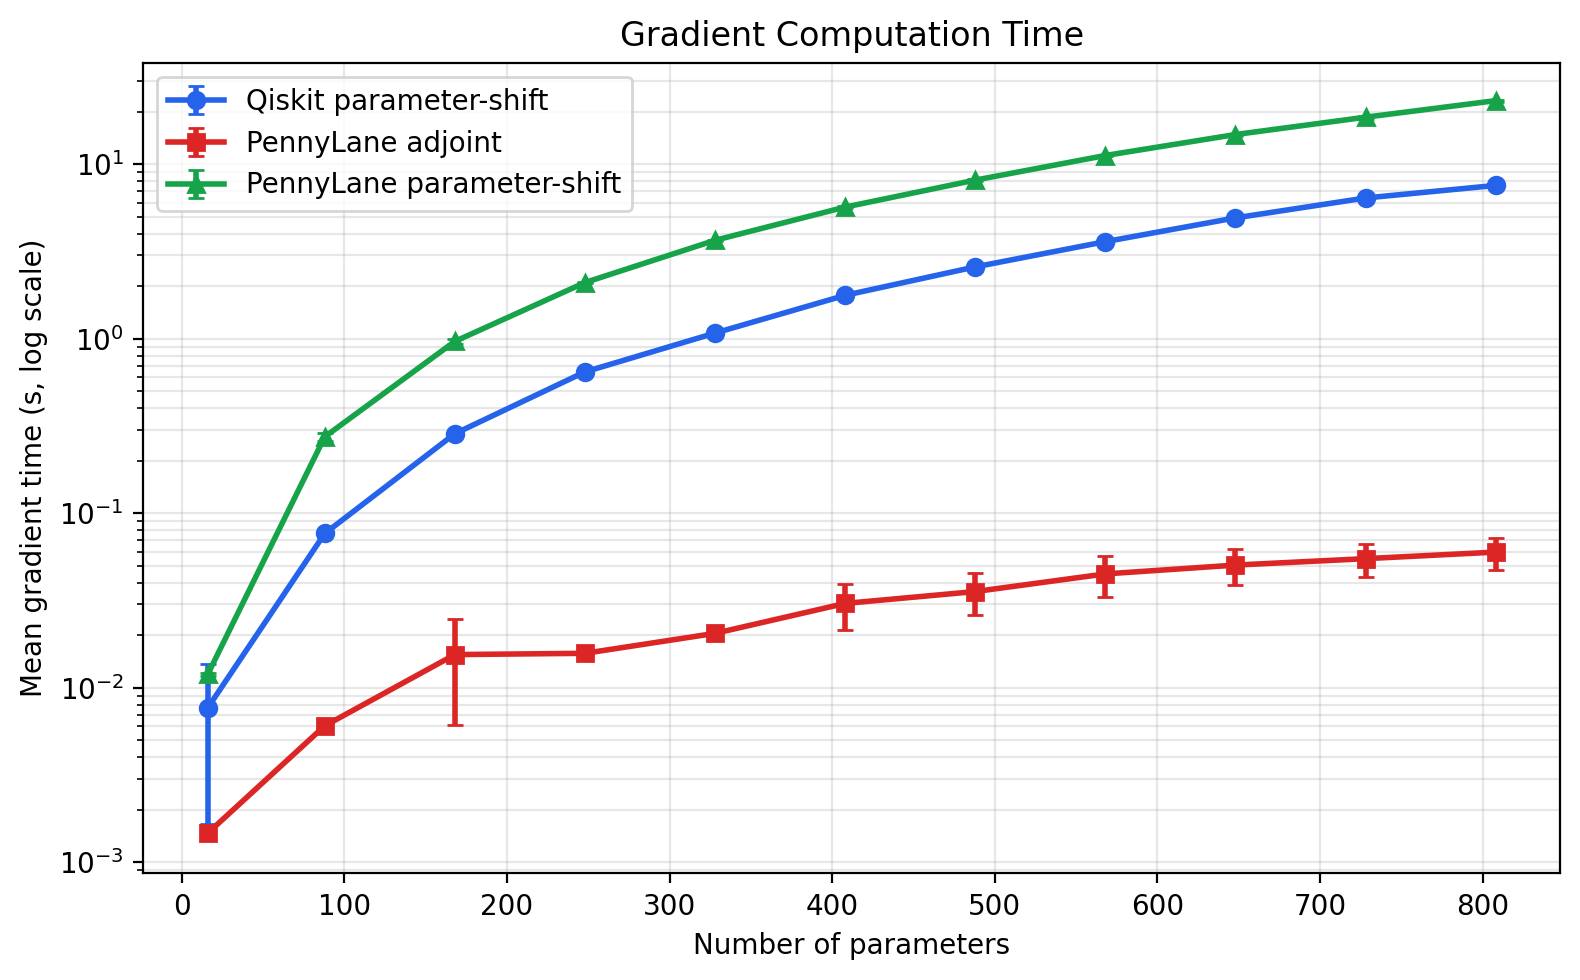
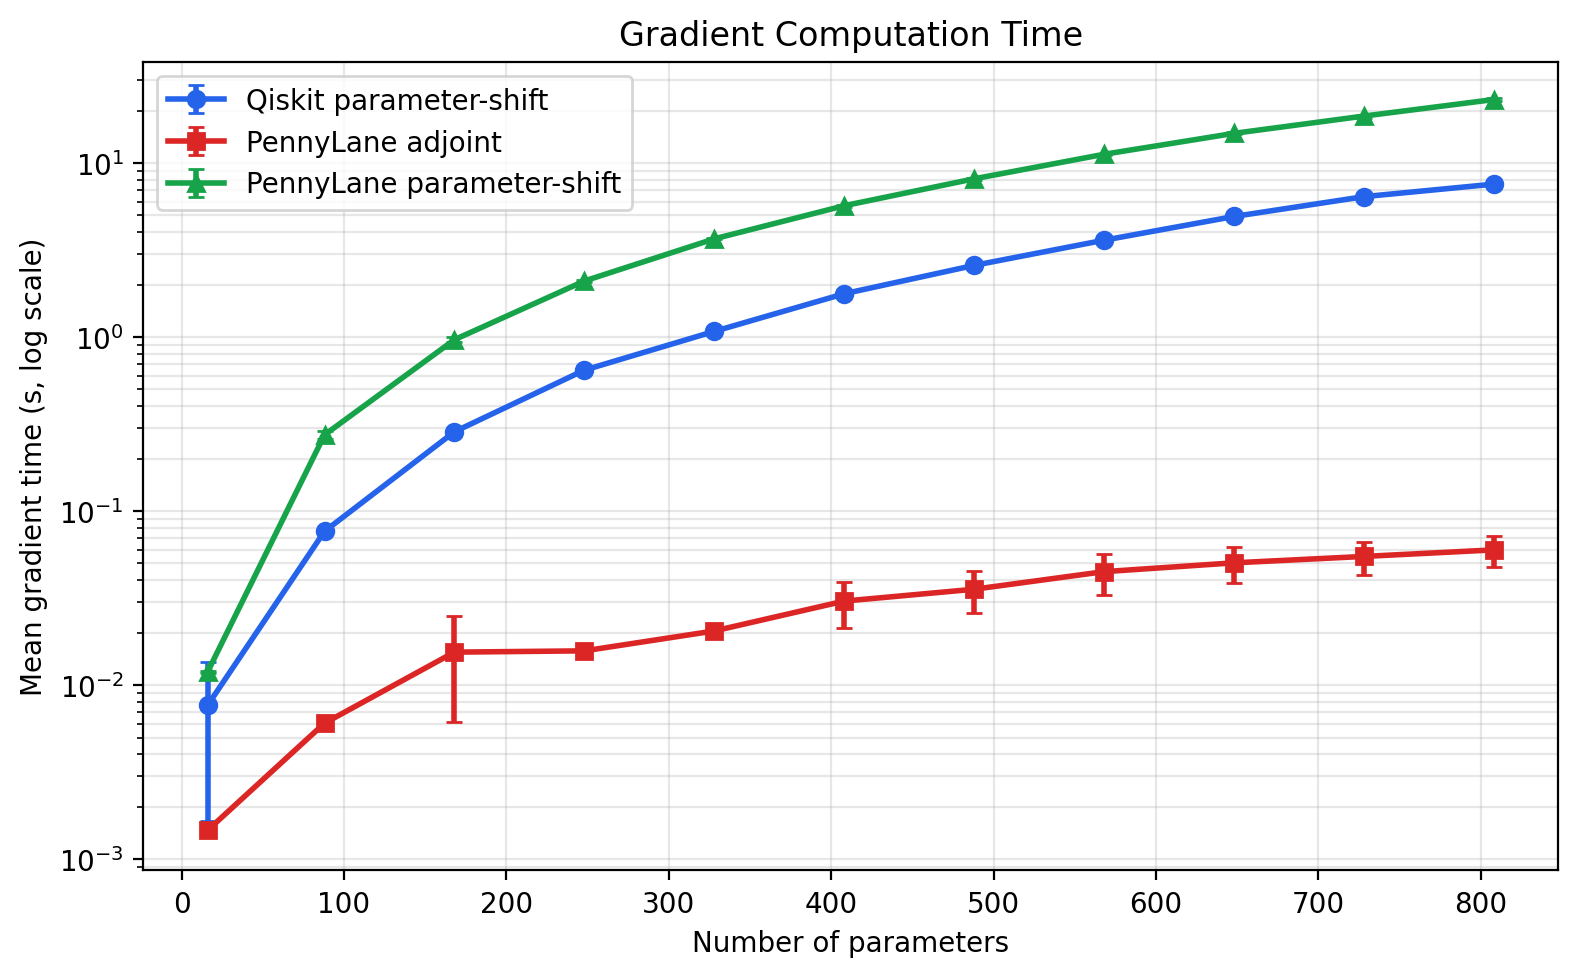
added runtime steps

diff --git a/plot.py b/plot.py
@@ -7,6 +7,9 @@ from pathlib import Path
 
 os.environ.setdefault("MPLCONFIGDIR", "/private/tmp/source-to-speed-matplotlib")
 
+import matplotlib
+
+matplotlib.use("Agg")
 import matplotlib.pyplot as plt
 
 
@@ -56,8 +59,14 @@ def load_timing_results(path, mean_column, std_column):
     if not path.exists():
         raise FileNotFoundError(f"Missing gradient timing results: {path}")
 
+    timing_lines = []
     with path.open(newline="") as f:
-        rows = list(csv.DictReader(f))
+        for line in f:
+            if not line.strip():
+                break
+            timing_lines.append(line)
+
+    rows = list(csv.DictReader(timing_lines))
 
     required = {"num_params", mean_column, std_column}
     missing = required - set(rows[0].keys()) if rows else required